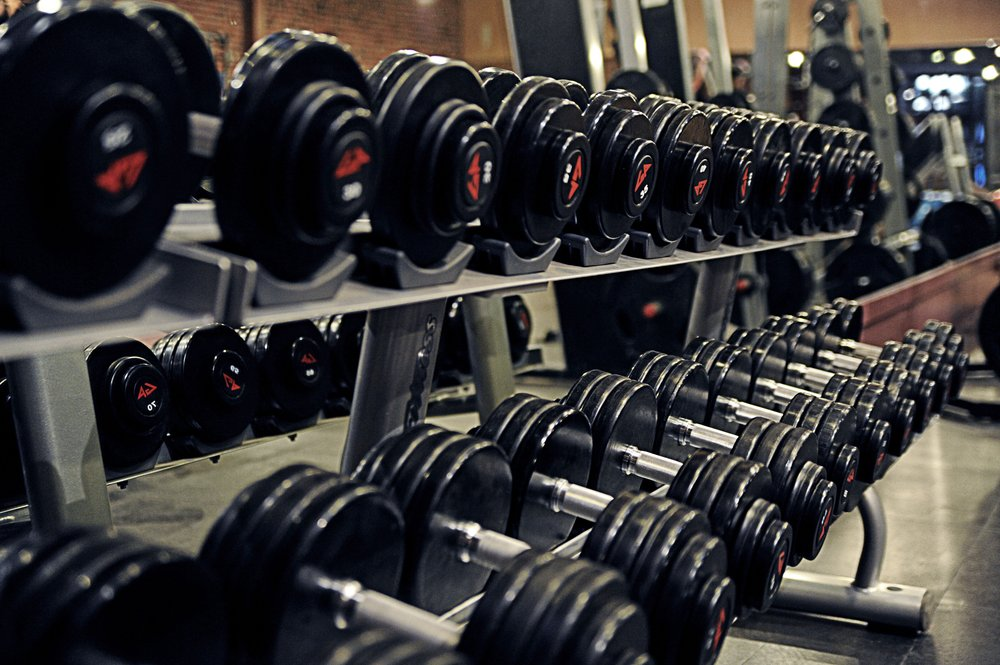
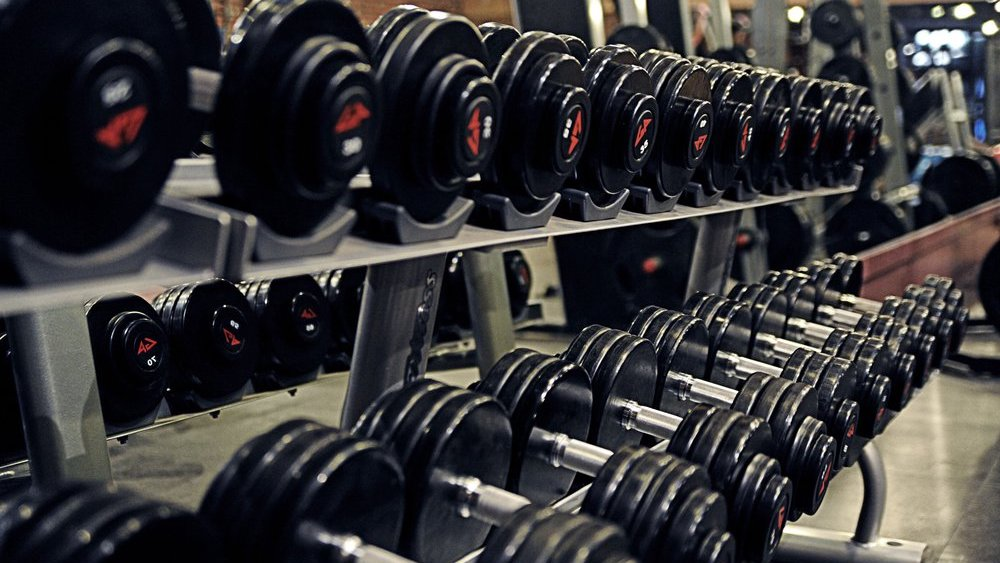
Fixed mal-sized photos

diff --git a/App/templates/classes.html b/App/templates/classes.html
@@ -9,20 +9,44 @@
     <section id="classpg-gallery">
         <section class="slideshow-container">
             <div class="homepg-slides fade">
-                <div class="homepg-slide-numbers">1 / 3</div>
-                <img src="https://www.w3schools.com/howto/img_nature_wide.jpg">
+                <div class="homepg-slide-numbers">1 / 7</div>
+                <img src="../static/images/classes/yoga.jpg">
                 <div class="slide-caption">Caption Text</div>
             </div>
             
             <div class="homepg-slides fade">
-                <div class="homepg-slide-numbers">2 / 3</div>
-                <img src="https://www.w3schools.com/howto/img_mountains_wide.jpg">
+                <div class="homepg-slide-numbers">2 / 7</div>
+                <img src="../static/images/classes/spin.jpg">
                 <div class="slide-caption">Caption Two</div>
             </div>
             
             <div class="homepg-slides fade">
-                <div class="homepg-slide-numbers">3 / 3</div>
-                <img src="https://www.w3schools.com/howto/img_snow_wide.jpg">
+                <div class="homepg-slide-numbers">3 / 7</div>
+                <img src="../static/images/classes/bootcamp.jpg">
+                <div class="slide-caption">Caption Three</div>
+            </div>
+            
+            <div class="homepg-slides fade">
+                <div class="homepg-slide-numbers">3 / 7</div>
+                <img src="../static/images/classes/combat.jpg">
+                <div class="slide-caption">Caption Three</div>
+            </div>
+            
+            <div class="homepg-slides fade">
+                <div class="homepg-slide-numbers">3 / 7</div>
+                <img src="../static/images/classes/barre.jpg">
+                <div class="slide-caption">Caption Three</div>
+            </div>
+            
+            <div class="homepg-slides fade">
+                <div class="homepg-slide-numbers">3 / 7</div>
+                <img src="../static/images/classes/pilates.jpg">
+                <div class="slide-caption">Caption Three</div>
+            </div>
+            
+            <div class="homepg-slides fade">
+                <div class="homepg-slide-numbers">3 / 7</div>
+                <img src="../static/images/classes/active-aging.jpg">
                 <div class="slide-caption">Caption Three</div>
             </div>
             
